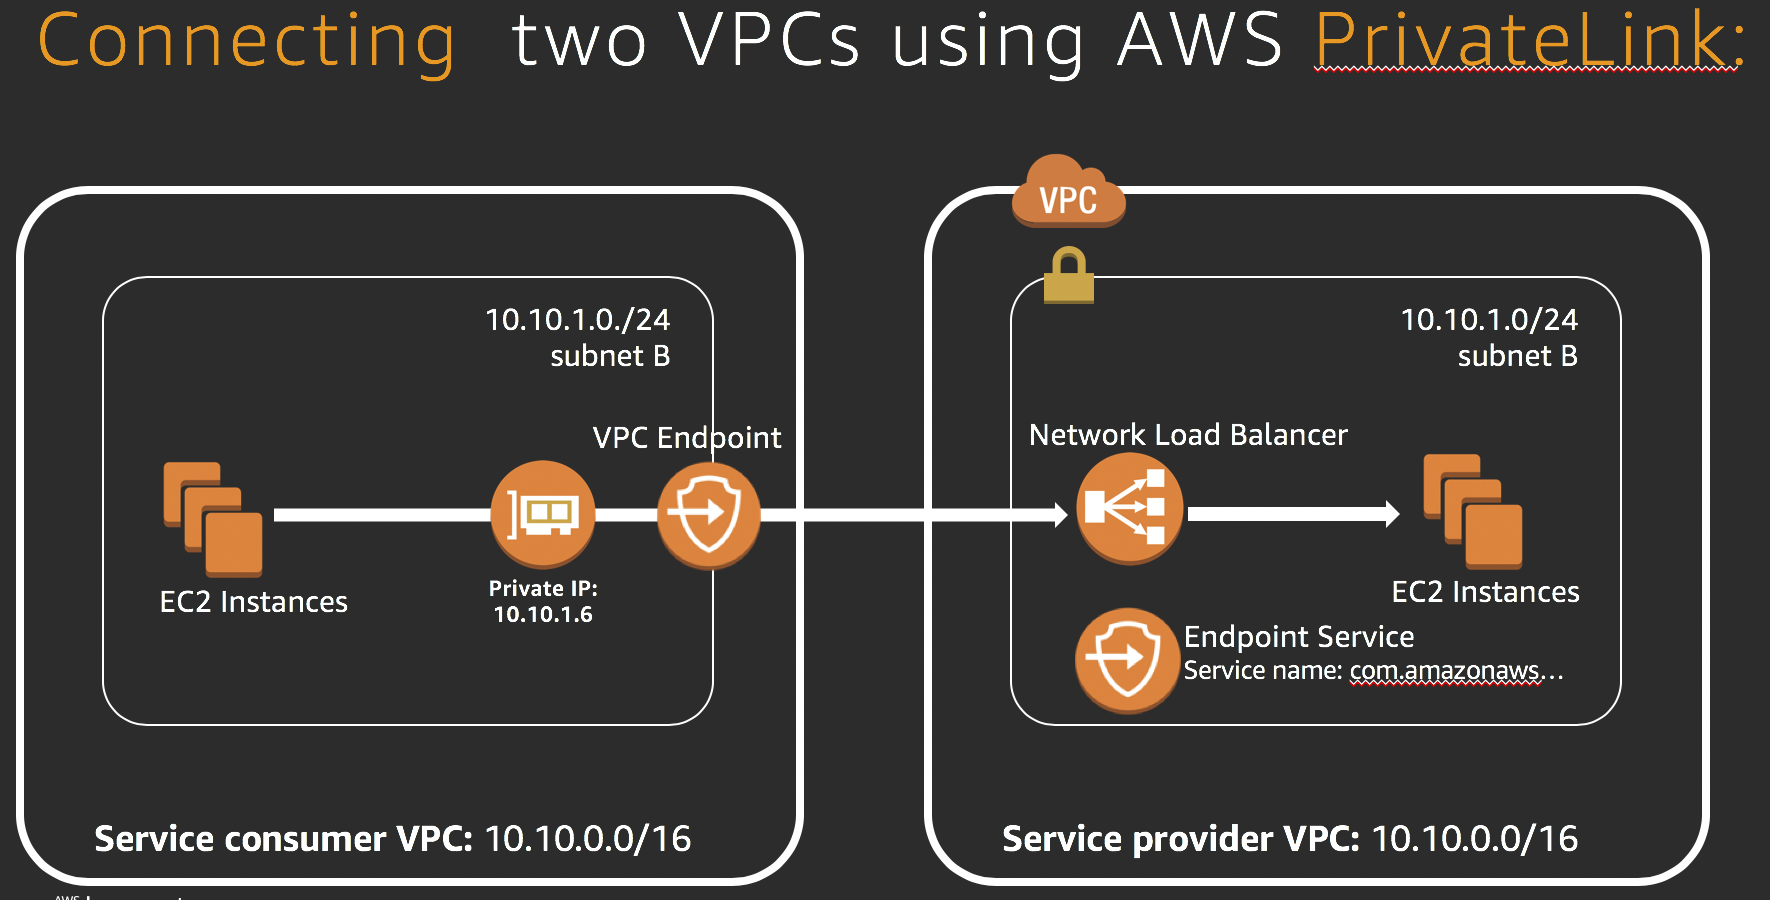
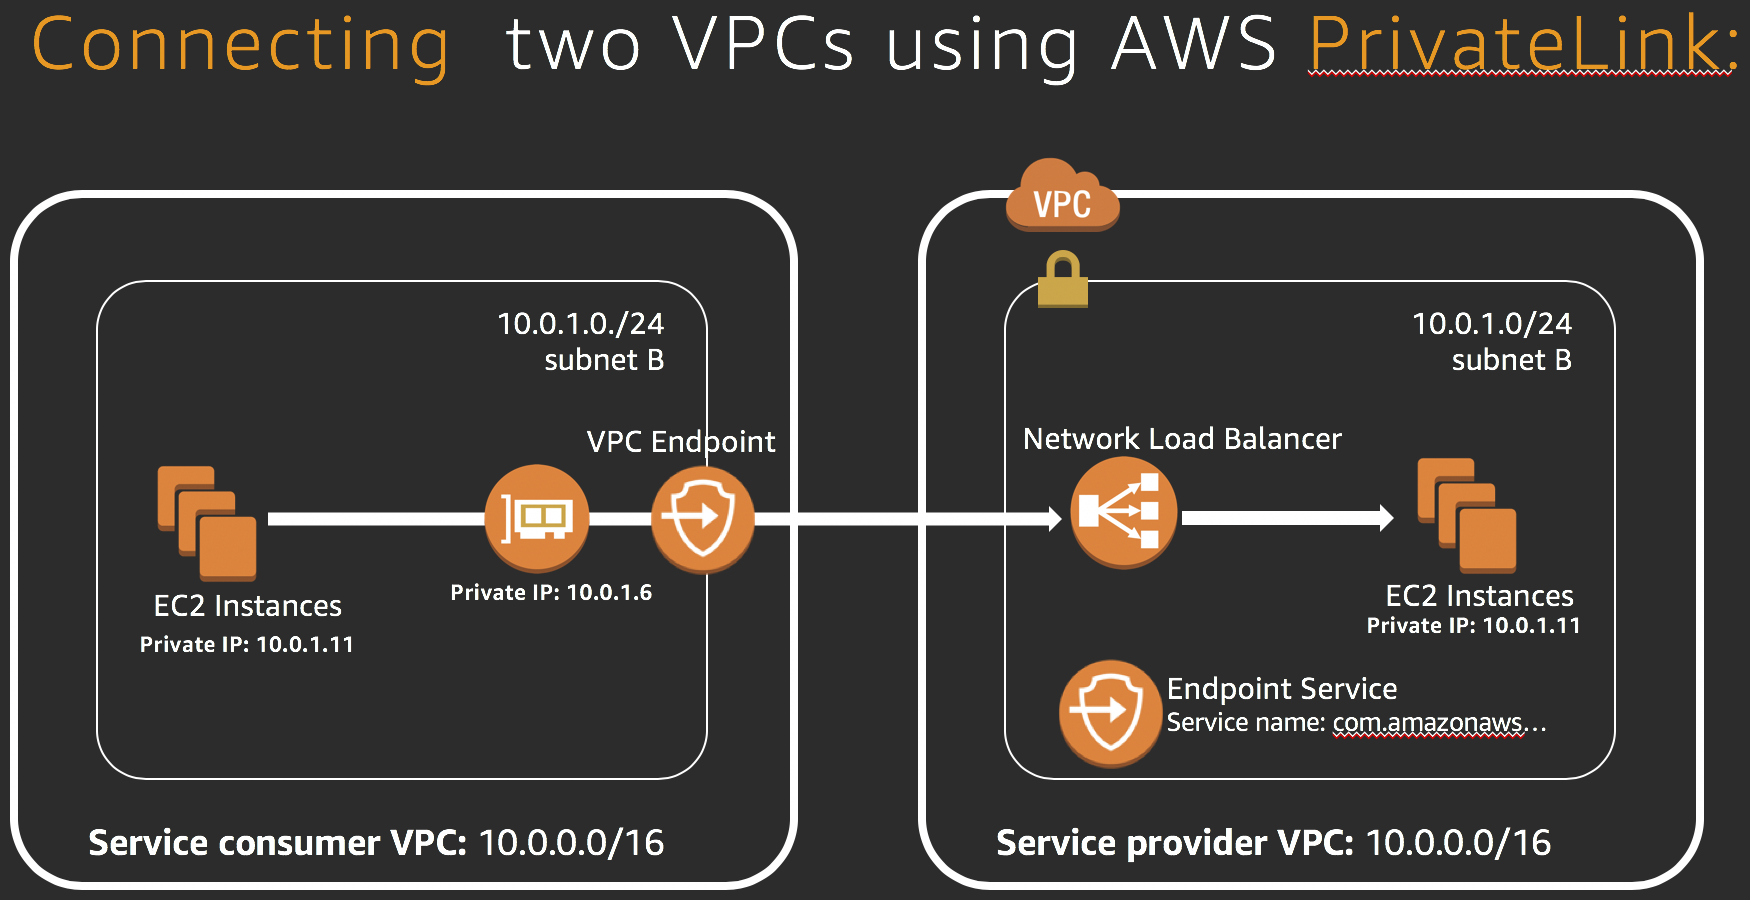
modified images to reflect correct CIDR

diff --git a/net316/README.md b/net316/README.md
@@ -9,8 +9,8 @@
 ![](images/overlapping_ip.png)
 
 - In this session, we will connect two VPCs with overlapping IP addresses by building two solutions:
-  1. [AWS PrivateLink](https://aws.amazon.com/privatelink/)
-  2. [Software VPN and NAT](https://docs.aws.amazon.com/aws-technical-content/latest/aws-vpc-connectivity-options/software-vpn-amazon-to-amazon.html)
+  - [AWS PrivateLink](https://aws.amazon.com/privatelink/)
+  - [Software VPN and NAT](https://docs.aws.amazon.com/aws-technical-content/latest/aws-vpc-connectivity-options/software-vpn-amazon-to-amazon.html)
 - We then analyze the design tradeoffs of each approach
 
 ## Prerequisites:
